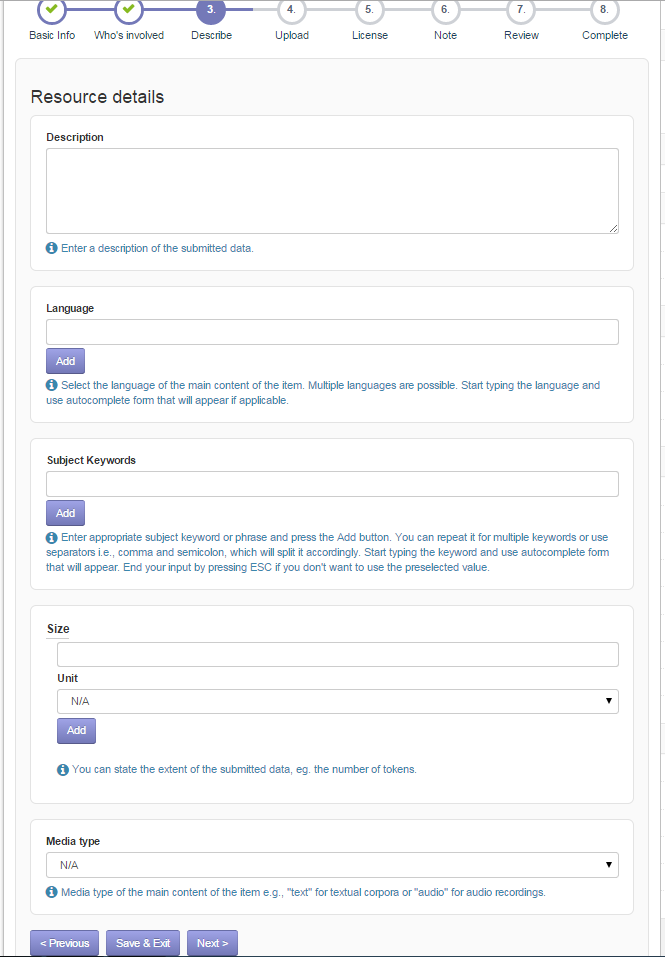
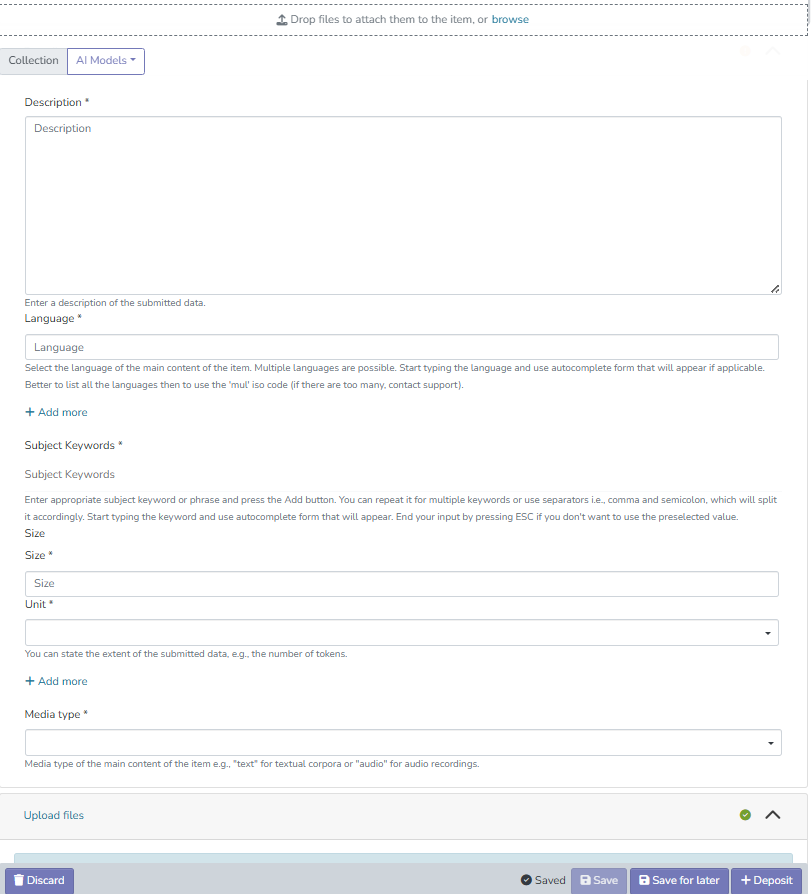
docs(static): refresh deposit page for v7 UI

diff --git a/src/static-files/cs/deposit.html b/src/static-files/cs/deposit.html
@@ -25,24 +25,26 @@
         Návod níže popisuje přidání nového záznamu, pokud nahráváte novou verzi záznamu dostupného v repozitáři, jsou
         k dispozici
         <a href="https://github.com/ufal/clarin-dspace/wiki/New-Version-Guide">detailnější instrukce</a>.
+        Novou verzi vytvoříte na stránce záznamu nebo u archivovaného záznamu v sekci <strong>Vaše záznamy</strong>
+        tlačítkem <strong>Vytvořit novou verzi</strong>.
     </div>
     <div id="step1" style="margin-bottom: 20px;">
                 <h3>Krok 1: Přihlášení</h3>
-                <p style="margin-top: 10px; margin-bottom: 10px;">Chcete-li zahájit vložení nové datové položky, musíte se nejprve přihlásit. Klikněte na 'Přihlásit se' pod 'Můj účet' v menu na pravé straně.</p>
+                <p style="margin-top: 10px; margin-bottom: 10px;">Chcete-li zahájit vložení nové datové položky, musíte se nejprve přihlásit. Klikněte na 'Přihlášení' v pravém horním rohu stránky.</p>
                 <figure class="print_screen_figure">
 			<img src="assets/images/static-pages/step1.png" class="print_screen_img" alt="{{'static.deposit.image.step-1' | translate}}" />
-			<figcaption>Obr 1. Menu Přihlásit se</figcaption>
+			<figcaption>Obr 1. Přihlášení</figcaption>
 		</figure>
         </div>
 
         <div id="step2" style="margin-bottom: 0;">
                 <h3>Krok 2: Zahájení vkládání nové položky dat</h3>
-                <p style="margin-top: 10px; margin-bottom: 10px;">Nyní máte novou položku v menu 'Uložení dat' pod 'Můj účet'. Klikněte na 'Uložení dat' a přejděte na  obrazovku pro uložení dat.</p>
+                <p style="margin-top: 10px; margin-bottom: 10px;">Po přihlášení klikněte v menu vlevo na 'Příspěvky'.</p>
                 <figure class="print_screen_figure">
 			<img src="assets/images/static-pages/step2.png" class="print_screen_img"  alt="{{'static.deposit.image.step-2' | translate}}"/>
-			<figcaption>Obr 2. Menu Uložení dat</figcaption>
+			<figcaption>Obr 2. Menu Příspěvky</figcaption>
 		</figure>
-                <p style="margin-top: 10px; margin-bottom: 10px;">Nyní byste měli být na hlavní stránce pro uložení dat, kde se můžete dívat na svá neúplná/archivní uložená data. Klikněte na odkaz 'Zahájit nové uložení dat' pro zahájení vkládání nové datové položky.</p>
+                <p style="margin-top: 10px; margin-bottom: 10px;">Nyní byste měli být na stránce 'Vaše záznamy', kde se můžete dívat na své rozpracované a archivované záznamy. Klikněte na tlačítko '+' ('Nový příspěvek') pro zahájení vkládání nové datové položky.</p>
                 <figure class="print_screen_figure">
 			<img src="assets/images/static-pages/step2_1.png" class="print_screen_img" width="600px" alt="{{'static.deposit.image.step-2-1' | translate}}" />
 			<figcaption>Obr 3. Zahájení vkládání dat</figcaption>
@@ -50,18 +52,18 @@
         </div>
 
         <div id="step3" style="margin-bottom: 20px;">
-                <h3>Krok 3: Vyberte druh dat</h3>
-                <p style="margin-top: 10px; margin-bottom: 10px;">Zahájili jste vkládání nové položky dat. V následujících několika krocích budete poskytovat podrobnosti o nové položce a nahrávat vaše soubory s daty. Nejprve vyberte druh dat, která chcete uložit.</p>
+                <h3>Krok 3: Zvolte typ dat</h3>
+                <p style="margin-top: 10px; margin-bottom: 10px;">Zahájili jste vkládání nové položky dat. Formulář má několik sekcí ('Základní informace o dokumentu', 'Nahrát soubory', 'Vložit licenci', 'Vybrat licenci'), ve kterých budete poskytovat podrobnosti o nové položce a nahrávat vaše soubory s daty. Nejprve vyberte druh dat, která chcete uložit.</p>
                 <figure class="print_screen_figure">
 			<img src="assets/images/static-pages/step3.png" class="print_screen_img" width="600px" alt="{{'static.deposit.image.step-3' | translate}}" />
 			<figcaption>Obr 4. Informace o vkládaných datech</figcaption>
 		</figure>
-                <p style="margin-top: 10px; margin-bottom: 10px;">Klikněte na jedno z tlačítek, např. 'Korpus'. Pokračujte podáním základních informací, jako je název vkládané položky. Klikněte na 'Další' pro pokračování.</p>
+                <p style="margin-top: 10px; margin-bottom: 10px;">Vyberte jednu z možností v rozevíracím seznamu, např. 'Corpus'. Pokračujte podáním základních informací, jako je název vkládané položky.</p>
         </div>
 
         <div id="step4" style="margin-bottom: 20px;">
                 <h3>Krok 4: Popište svou vkládanou položku</h3>
-                <p style="margin-top: 10px; margin-bottom: 10px;">V následujících dvou krocích poskytnete víc detailů o své položce. Nejprve popište osoby, organizaci a projekty spojené s vkládanou datovou položkou.</p>
+                <p style="margin-top: 10px; margin-bottom: 10px;">Dále poskytnete víc detailů o své položce. Nejprve popište osoby, organizaci a projekty spojené s vkládanou datovou položkou.</p>
                 <figure class="print_screen_figure">
 			<img src="assets/images/static-pages/step4.png" class="print_screen_img" width="600px" alt="{{'static.deposit.image.step-4' | translate}}" />
 			<figcaption>Obr 5. Popis vkládané datové položky - osoby a organizace</figcaption>
@@ -71,24 +73,23 @@
 			<img src="assets/images/static-pages/step4_1.png" class="print_screen_img" width="600px" alt="{{'static.deposit.image.step-4-1' | translate}}"/>
 			<figcaption>Obr 6. Popis vkládané datové položky - detaily zdroje</figcaption>
 		</figure>
-                <p style="margin-top: 10px; margin-bottom: 10px;">Po vyplnění potřebných informací klikněte na tlačítko 'Další' pro nahrání souborů.</p>
+                <p style="margin-top: 10px; margin-bottom: 10px;">Po vyplnění potřebných informací pokračujte sekcí 'Nahrát soubory'.</p>
         </div>
 
         <div id="step5" style="margin-bottom: 20px;">
                 <h3>Krok 5: Nahrávání souborů</h3>
-                <p style="margin-top: 10px; margin-bottom: 10px;">V tomto kroku budete nahrávat soubory, které jsou součástí vámi ukládaných dat. Pokud žádné soubory nemáte, můžete tento krok přeskočit kliknutím na 'Další'. Soubory lze přidat kliknutím na tlačítko 'Procházet' nebo můžete soubory přetahovat do šedé oblasti s textem 'Přetáhněte soubory sem'.</p>
+                <p style="margin-top: 10px; margin-bottom: 10px;">V sekci 'Nahrát soubory' budete nahrávat soubory, které jsou součástí vámi ukládaných dat. Pokud žádné soubory nemáte, můžete tuto sekci přeskočit. Soubory lze přidat kliknutím na 'procházet' nebo můžete soubory přetahovat do oblasti v horní části formuláře s textem 'Přetáhnout soubory a připojit je k záznamu'.</p>
                 <figure class="print_screen_figure">
 			<img src="assets/images/static-pages/step5.png" class="print_screen_img" width="600px" alt="{{'static.deposit.image.step-5' | translate}}"/>
 			<figcaption>Obr 7. Nahrávání souborů</figcaption>
 		</figure>
-                <p style="margin-top: 10px; margin-bottom: 10px;">Výběrem nahrávání souborů se otevře dialogové okno, v němž můžete zadat popis každého souboru. Chcete-li zahájit nahrávání souboru, klikněte na tlačítko 'Začít nahrávání'.</p>
-                <p style="margin-top: 10px; margin-bottom: 10px;">Jakmile je nahrávání souboru(ů) ukončeno, zmáčkněte tlačítko 'OK' pro uzavření dialogového okna. Nyní můžete buď přidat další soubory nebo můžete smazat či upravit již ty nahrané. Jakmile práci s datovými soubory dokončíte, stiskněte tlačítko 'Další' a můžete pokračovat výběrem licence.</p>
+                <p style="margin-top: 10px; margin-bottom: 10px;">Nyní můžete buď přidat další soubory nebo můžete smazat či upravit již ty nahrané. Jakmile práci s datovými soubory dokončíte, můžete pokračovat výběrem licence.</p>
         </div>
 
         <div id="step6" style="margin-bottom: 20px;">
                 <h3>Krok 6: Výběr licence</h3>
                 <p style="margin-top: 10px; margin-bottom: 10px;">Pokud nahrajete alespoň jeden soubor, musíte v tomto kroku vybrat licenci, pod kterou chcete, aby byla vaše data distribuována (data bez licence jsou nepoužitelná, protože uživatel by nevěděl, za jakých podmínek je může používat!)
-                        Prosím přečtěte si pečlivě <a href="contract">Smlouvu o distribuci dat </a> a klikněte na červené políčko na znamení souhlasu se smlouvou (po kliknutí červené políčko zezelená).
+                        Prosím přečtěte si pečlivě <a href="contract">Licenční smlouvu o distribuci</a> a klikněte na 'Klikněte pro přijetí' na znamení souhlasu se smlouvou (text se změní na 'Přijato').
                         <figure class="print_screen_figure">
 				<img src="assets/images/static-pages/step6_1.png" class="print_screen_img" width="600px" alt="{{'static.deposit.image.step-6-1' | translate}}" />
 				<figcaption>Obr 8. Licence ke smlouvě o distribuci dat</figcaption>
@@ -114,23 +115,21 @@
                         (viz <a href="static/item-lifecycle#restricted-submissions">Vkládání dat s omezeními</a>).
                         Pokud o uživatelích potřebujete více informací než to, že jsou ověřeni univerzitou (nebo podobnou institucí), můžeme požádat o některá další specifická ověření podobná standardním webovým formulářům. To dává smysl hlavně pro data s licencí, která obsahuje podmínku "nemožnosti další distribuce".
                 </div>
-
-                <p style="margin-top: 10px; margin-bottom: 10px;">Pro pokračování klikněte na 'Další'.</p>
         </div>
 
         <div id="step7" style="margin-bottom: 20px;">
                 <h3>Krok 7: Zanechte poznámku</h3>
-		<p style="margin-top: 10px; margin-bottom: 10px;"> V tomto kroku můžete zanechat poznámku pro "redaktory" repozitáře LINDAT/CLARIAH-CZ, kteří budou datovou položku definitivně schvalovat pro uveřejnění.</p>
+		<p style="margin-top: 10px; margin-bottom: 10px;">Do pole 'Vzkaz' v sekci 'Základní informace o dokumentu' pod sekcí 'Vybrat licenci' můžete zanechat poznámku pro "redaktory" repozitáře LINDAT/CLARIAH-CZ, kteří budou datovou položku definitivně schvalovat pro uveřejnění.</p>
         </div>
 
         <div id="step8" style="margin-bottom: 20px;">
                 <h3>Krok 8: Zkontrolujte uložení svých dat</h3>
-		<p style="margin-top: 10px; margin-bottom: 10px;">V tomto kroku zkontrolujete uložení svých dat před jejich vložením. Kontrolní stránka obsahuje dílčí kontrolní postup pro každý z dříve vyplněných kroků. Pokud chcete změnit jakoukoli položku v příslušném kroku, klikněte na 'Opravit' u jakékoli z nich a dostanete se tak na příslušnou stránku daného kroku. Po ověření všech detailů lze provést uložení datové položky kliknutím na 'Dokončit uložení', nebo lze kliknout na 'Uložit &amp; Konec'  pro uložení dat, ke kterým se chcete ještě vrátit později.</p>
+		<p style="margin-top: 10px; margin-bottom: 10px;">Před vložením zkontrolujte ikonu u názvu každé sekce. Zelená značka znamená, že sekce je platná. Oranžová nebo červená značka znamená, že sekce má varování nebo chyby, např. není vyplněno povinné pole. Po ověření všech detailů lze provést uložení datové položky kliknutím na 'Nahrát', nebo lze kliknout na 'Uložit na později' pro uložení dat, ke kterým se chcete ještě vrátit později.</p>
         </div>
 
         <div id="step9" style="margin-bottom: 20px;">
                 <h3>Krok 9: Odeslání dat ke kontrole</h3>
-		<p style="margin-top: 10px; margin-bottom: 10px;">Jakmile v kontrolním kroku kliknete na 'Dokončit uložení datové položky', položka bude vložena a bude k dispozici redakční kontrole. Poté, co redaktoři LINDAT/CLARIAH-CZ položku schválí, objeví se v repozitáři a bude tak zpřístupněna veřejnosti za podmínek definovaných licencí, kterou jste pro tuto položku vybrali v průběhu vkládání.
+		<p style="margin-top: 10px; margin-bottom: 10px;">Jakmile kliknete na 'Nahrát', položka bude vložena a bude k dispozici redakční kontrole. Poté, co redaktoři LINDAT/CLARIAH-CZ položku schválí, objeví se v repozitáři a bude tak zpřístupněna veřejnosti za podmínek definovaných licencí, kterou jste pro tuto položku vybrali v průběhu vkládání.
  V případě jakéhokoliv dotazu ohledně uložení dat vás bude redakce LINDAT/CLARIAH-CZ kontaktovat a vyžádá si další podrobnosti.</p>
         </div>
 </div>

diff --git a/src/static-files/deposit.html b/src/static-files/deposit.html
@@ -27,24 +27,26 @@
             The guide below describes new submissions, if what you plan to submit is a new version of a resource
             already available in the repository see the
             <a href="https://github.com/ufal/clarin-dspace/wiki/New-Version-Guide">new version guide</a>.
+            To start one, click the version icon (branch symbol) on the item page, or find your archived item in
+            <strong>Your submissions</strong> and click <strong>Create new version</strong>.
         </div>
     <div id="step1" style="margin-bottom: 20px;">
                 <h3>Step 1: Login</h3>
-                <p style="margin-top: 10px; margin-bottom: 10px;">To start a new submission you have to login first. Click Login under My Account in the right menu panel.</p>
+                <p style="margin-top: 10px; margin-bottom: 10px;">To start a new submission you have to login first. Click Login at the top right of the page.</p>
                 <figure class="print_screen_figure">
 			<img src="assets/images/static-pages/step1.png" class="print_screen_img" alt="{{'static.deposit.image.step-1' | translate}}" />
-			<figcaption>Fig1. Menu Login</figcaption>
+			<figcaption>Fig1. Login</figcaption>
 		</figure>
         </div>
 
         <div id="step2" style="margin-bottom: 0;">
                 <h3>Step 2: Starting a new submission</h3>
-                <p style="margin-top: 10px; margin-bottom: 10px;">Now you have a new menu item 'Submissions' under My Account. Click on Submissions to go to the Submissions screen.</p>
+                <p style="margin-top: 10px; margin-bottom: 10px;">After you log in, click 'Submissions' in the menu on the left.</p>
                 <figure class="print_screen_figure">
 			<img src="assets/images/static-pages/step2.png" class="print_screen_img" alt="{{'static.deposit.image.step-2' | translate}}"/>
 			<figcaption>Fig2. Menu Submissions</figcaption>
 		</figure>
-                <p style="margin-top: 10px; margin-bottom: 10px;">Now you should be on the main Submission and Workflow tasks page where you can view your incomplete/archive submissions. Click on the 'Start another submission' link to start a new Submission.</p>
+                <p style="margin-top: 10px; margin-bottom: 10px;">Now you should be on the 'Your submissions' page, where you can view your in-progress and archived submissions. Click the '+' button ('New submission') to start a new submission.</p>
                 <figure class="print_screen_figure">
 			<img src="assets/images/static-pages/step2_1.png" class="print_screen_img" width="600px" alt="{{'static.deposit.image.step-2-1' | translate}}"/>
 			<figcaption>Fig3. Starting a submission</figcaption>
@@ -52,18 +54,18 @@
         </div>
 
         <div id="step3" style="margin-bottom: 20px;">
-                <h3>Step 3: Select type of your submission</h3>
-                <p style="margin-top: 10px; margin-bottom: 10px;">You have initiated a new workflow item. In the next few steps you will provide the details about the item and upload content files. First select the type of the resource you are about to submit.</p>
+                <h3>Step 3: Select type of your resource</h3>
+                <p style="margin-top: 10px; margin-bottom: 10px;">You have started a new submission. The submission form has several sections ('Describe', 'Upload files', 'Deposit license', 'Pick license') where you will provide the details about the item and upload content files. First select the type of the resource you are about to submit.</p>
                 <figure class="print_screen_figure">
 			<img src="assets/images/static-pages/step3.png" class="print_screen_img" width="600px" alt="{{'static.deposit.image.step-3' | translate}}"/>
 			<figcaption>Fig4. Submission info</figcaption>
 		</figure>
-                <p style="margin-top: 10px; margin-bottom: 10px;">Click on one of the type buttons e.g. Corpus. Proceed with filling the basic information such as the title. Click Next to continue the following step.</p>
+                <p style="margin-top: 10px; margin-bottom: 10px;">Select one of the options in the dropdown list, e.g. Corpus. Proceed with filling the basic information such as the title.</p>
         </div>
 
         <div id="step4" style="margin-bottom: 20px;">
                 <h3>Step 4: Describe your item</h3>
-                <p style="margin-top: 10px; margin-bottom: 10px;">In the following two steps you will provide more details for your item. First describe the people, organization and projects involved with the item.</p>
+                <p style="margin-top: 10px; margin-bottom: 10px;">Next you will provide more details for your item. First describe the people, organization and projects involved with the item.</p>
                 <figure class="print_screen_figure">
 			<img src="assets/images/static-pages/step4.png" class="print_screen_img" width="600px" alt="{{'static.deposit.image.step-4' | translate}}"/>
 			<figcaption>Fig5. Describing item - people and organizations</figcaption>
@@ -73,21 +75,19 @@
 			<img src="assets/images/static-pages/step4_1.png" class="print_screen_img" width="600px" alt="{{'static.deposit.image.step-4-1' | translate}}" />
 			<figcaption>Fig6. Describing item - resource details</figcaption>
 		</figure>
-                <p style="margin-top: 10px; margin-bottom: 10px;">Once you filled the necessary information, click Next to upload the content files.</p>
+                <p style="margin-top: 10px; margin-bottom: 10px;">Once you filled the necessary information, continue to the 'Upload files' section.</p>
         </div>
 
         <div id="step5" style="margin-bottom: 20px;">
                 <h3>Step 5: Upload files</h3>
-                <p style="margin-top: 10px; margin-bottom: 10px;">In this step you will upload the content files of your submission. If there are no files, you can skip this step by clicking
-                        Next. The files can be added by clicking the browse button or you can drag and drop files in the gray area with text 'Drag and Drop file(s) here'.</p>
+                <p style="margin-top: 10px; margin-bottom: 10px;">In the 'Upload files' section you will upload the content files of your submission. If there are no files, you can skip this section.
+                        The files can be added by clicking 'browse' or you can drag and drop files in the area at the top of the form with text 'Drop files to attach them to the item'.</p>
                 <figure class="print_screen_figure">
 			<img src="assets/images/static-pages/step5.png" class="print_screen_img" width="600px" alt="{{'static.deposit.image.step-5' | translate}}" />
 			<figcaption>Fig7. Uploading file</figcaption>
 		</figure>
-                <p style="margin-top: 10px; margin-bottom: 10px;">Selecting files will open a dialog box, where you can enter the description of each file. To begin the file upload
-click 'Start Upload'.</p>
-                <p style="margin-top: 10px; margin-bottom: 10px;">Once the file(s) upload is done, press OK to close the dialog box. You can add more files or delete/modify the already uploaded ones,
-                        after you finish press Next to continue with the License selection.</p>
+                <p style="margin-top: 10px; margin-bottom: 10px;">You can add more files or delete/modify the already uploaded ones,
+                        after you finish continue with the License selection.</p>
         </div>
 
         <div id="step6" style="margin-bottom: 20px;">
@@ -95,8 +95,8 @@ click 'Start Upload'.</p>
                 <p style="margin-top: 10px; margin-bottom: 10px;">If you uploaded at least one file, you must select
                         a license under which you want your resources to be distributed in this step (data without
                         license is unusable because a user does not know how can he/she use it!).
-                        Please read the <a href="contract">Distribution agreement carefully</a>
-                        and click the red box to indicate your agreement (it will turn green).
+                        Please read the <a href="contract">Distribution License Agreement</a> carefully
+                        and click 'Click to accept' to indicate your agreement (it will change to 'Accepted').
                         <figure class="print_screen_figure">
 				<img src="assets/images/static-pages/step6_1.png" class="print_screen_img" width="600px" alt="{{'static.deposit.image.step-6-1' | translate}}" />
 				<figcaption>Fig8. Distribution license agreement</figcaption>
@@ -124,26 +124,23 @@ click 'Start Upload'.</p>
                         university (or similar), we can ask for some specific attributes similar to standard
                         web forms. This makes sense mostly for data with "no redistribution" clause in their license.
                 </div>
-
-                <p style="margin-top: 10px; margin-bottom: 10px;">Click Next to continue.</p>
         </div>
 
         <div id="step7" style="margin-bottom: 20px;">
                 <h3>Step 7: Leave a note</h3>
-		<p style="margin-top: 10px; margin-bottom: 10px;">You can leave a note for the reviewer in this step.</p>
+		<p style="margin-top: 10px; margin-bottom: 10px;">You can leave a note for the reviewer in the 'Note' field, in the 'Describe' section below 'Pick license'.</p>
         </div>
 
         <div id="step8" style="margin-bottom: 20px;">
                 <h3>Step 8: Review your submission</h3>
-		<p style="margin-top: 10px; margin-bottom: 10px;">In this step you will review your submission before submitting it. Review page contains a sub-review panel for each of the
-                step you have filled in before. If you want to change any field in a particular step just click Correct one of these and it will
-                take you directly to the particular step page. Once you verify all the detail, submission can be made by clicking Complete Submission
-                or you can click Save &amp; Exit to save the submission for continue working on it later.</p>
+		<p style="margin-top: 10px; margin-bottom: 10px;">Before submitting, check the icon next to each section heading. A green check means the section is valid.
+                An orange or red mark means the section has warnings or errors, e.g. a required field is empty. Once you verify all the detail,
+                submission can be made by clicking 'Deposit' or you can click 'Save for later' to save the submission for continue working on it later.</p>
         </div>
 
         <div id="step9" style="margin-bottom: 20px;">
                 <h3>Step 9: Submit</h3>
-		<p style="margin-top: 10px; margin-bottom: 10px;">Once you click the Complete Submission in the review step, item will be submitted for the reviewing by the editors. Once
+		<p style="margin-top: 10px; margin-bottom: 10px;">Once you click 'Deposit', item will be submitted for the reviewing by the editors. Once
                 the editors approve the item it will appear in the repository. In case of any query regarding the submission, editors will contact
                 you for the further detail.</p>
         </div>
